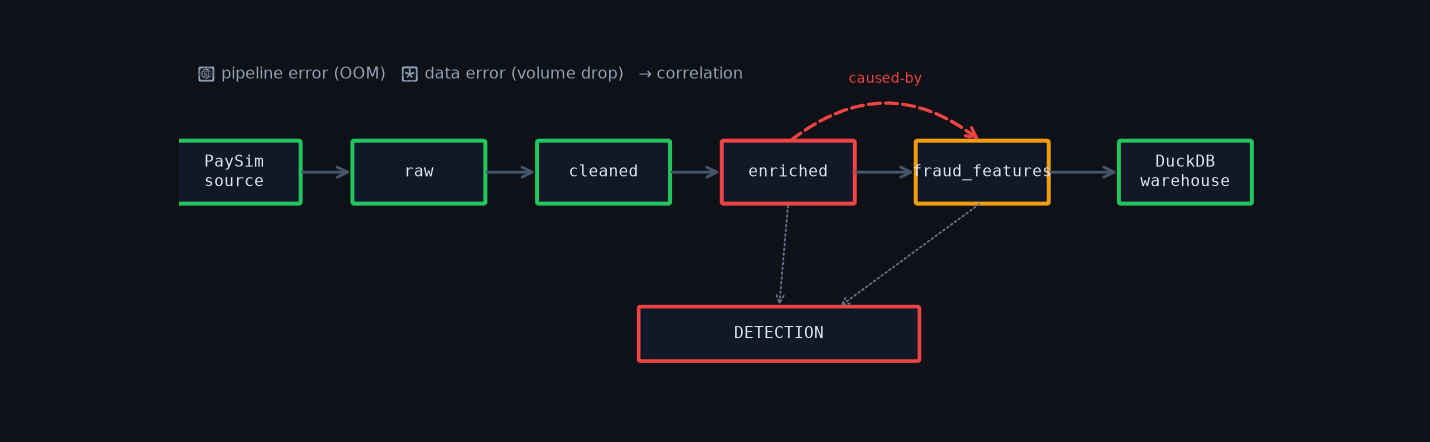
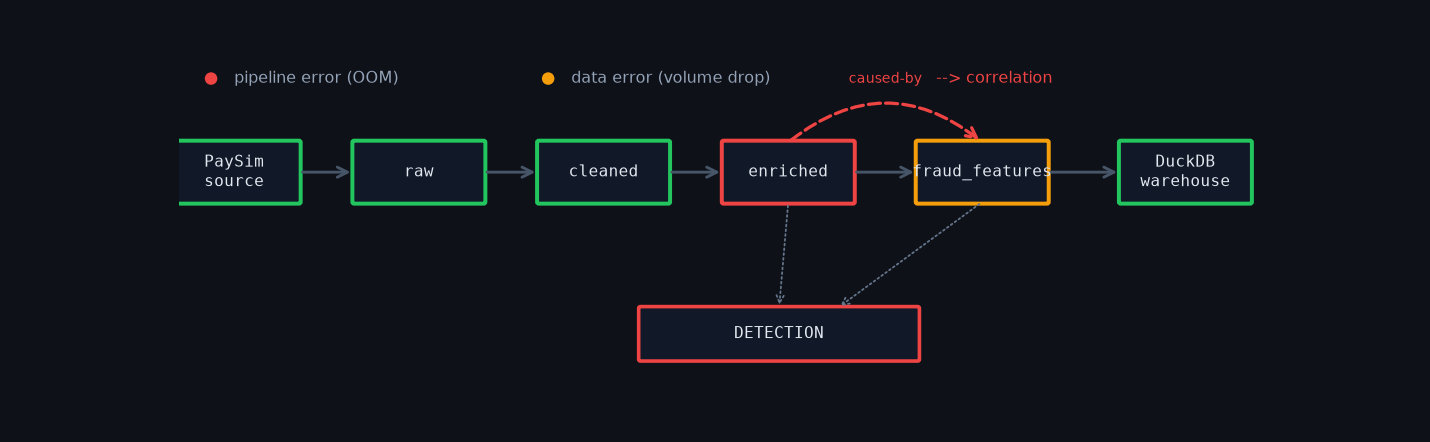
eval+docs: real LLM numbers (attribution 0.82 / op-cause 1.00, memory lift +0.05) + animated demo.gif
- Ran run_experiments --use-llm (Sonnet): bake root-cause attribution,
  report-quality rubric, and memory-ablation lift into README + writeup with
  honest weak spots (action-appropriateness 0.36; modest memory lift).
- Programmatic animated docs/demo.gif (matplotlib) replaces the broken image;
  legends drawn as dots (emoji glyphs missing from mpl fonts).

Changed region(s): [[0.1231, 0.1471, 0.5538, 0.2059], [0.6769, 0.1471, 0.7385, 0.2059]]

diff --git a/evaluation/plots.py b/evaluation/plots.py
@@ -101,10 +101,74 @@ def _flow_preview(out: Path) -> None:
                  connectionstyle="arc3,rad=-0.4", arrowstyle="->",
                  mutation_scale=14, color=_RED, lw=1.8, ls="--"))
     ax.text(7.65, cy + 1.05, "caused-by", ha="center", color=_RED, fontsize=8)
-    ax.text(0.2, 3.7, "🔴 pipeline error (OOM)   🟠 data error (volume drop)   "
-            "→ correlation", fontsize=9, color="#94a3b8")
+    ax.scatter([0.35], [3.7], s=48, c=_RED, edgecolors="none")
+    ax.text(0.6, 3.7, "pipeline error (OOM)", va="center", color="#94a3b8", fontsize=9)
+    ax.scatter([4.0], [3.7], s=48, c=_AMBER, edgecolors="none")
+    ax.text(4.25, 3.7, "data error (volume drop)", va="center", color="#94a3b8", fontsize=9)
+    ax.text(8.2, 3.7, "--> correlation", va="center", color=_RED, fontsize=9)
     fig.patch.set_facecolor("#0e1117")
     fig.savefig(out, dpi=130, facecolor="#0e1117"); plt.close(fig)
+
+
+def make_demo_gif(out: str = "docs/demo.gif", frames: int = 48, fps: int = 16) -> None:
+    """Programmatic animated demo of the Pipeline Flow (no screen recording).
+
+    Data particles stream left->right; downstream of the failed `enriched`
+    stage they turn amber (bad data propagating); the failed node pulses red and
+    a dashed caused-by arc links it to the amber downstream fault.
+    """
+    import numpy as np
+    from matplotlib import animation
+    from matplotlib.patches import FancyBboxPatch, FancyArrowPatch
+
+    nodes = [("PaySim", 0.6, _GREEN), ("raw", 2.6, _GREEN), ("cleaned", 4.6, _GREEN),
+             ("enriched", 6.6, _RED), ("fraud_features", 8.7, _AMBER),
+             ("warehouse", 10.9, _GREEN)]
+    cy, x0, x1, fault_x = 2.6, 1.3, 10.2, 6.6
+    rng = np.random.default_rng(0)
+    parts = rng.uniform(0, 1, 16)          # particle phases along the pipe
+    speed = 0.018 + rng.uniform(0, 0.01, 16)
+
+    fig, ax = plt.subplots(figsize=(10.5, 3.2))
+    fig.patch.set_facecolor("#0e1117")
+
+    def draw(frame):
+        ax.clear(); ax.set_xlim(0, 12); ax.set_ylim(0, 4); ax.axis("off")
+        ax.set_facecolor("#0e1117")
+        pulse = 2.0 + 1.6 * abs(np.sin(frame * 0.35))
+        for label, x, color in nodes:
+            lw = pulse if color in (_RED, _AMBER) else 2.0
+            ax.add_patch(FancyBboxPatch((x - 0.7, cy - 0.32), 1.4, 0.64,
+                         boxstyle="round,pad=0.02", fc="#111827", ec=color, lw=lw))
+            ax.text(x, cy, label, ha="center", va="center", color="#e2e8f0",
+                    fontsize=8.5, family="monospace")
+        for i in range(len(nodes) - 1):
+            ax.add_patch(FancyArrowPatch((nodes[i][1] + 0.7, cy), (nodes[i+1][1] - 0.7, cy),
+                         arrowstyle="->", mutation_scale=12, color="#475569", lw=1.4))
+        # particles
+        for j in range(len(parts)):
+            p = (parts[j] + frame * speed[j]) % 1.0
+            x = x0 + (x1 - x0) * p
+            col = _AMBER if x > fault_x else "#38bdf8"
+            ax.scatter([x], [cy], s=42, c=col, zorder=4, edgecolors="none")
+        # caused-by arc (pulses)
+        ax.add_patch(FancyArrowPatch((fault_x, cy + 0.32), (8.7, cy + 0.32),
+                     connectionstyle="arc3,rad=-0.4", arrowstyle="->",
+                     mutation_scale=13, color=_RED, lw=1.4 + 0.8*abs(np.sin(frame*0.35)), ls="--"))
+        ax.text(7.65, cy + 1.0, "caused-by", ha="center", color=_RED, fontsize=8)
+        # legend (drawn dots — emoji glyphs are missing from matplotlib fonts)
+        ax.scatter([0.3], [3.7], s=45, c=_RED, edgecolors="none")
+        ax.text(0.5, 3.7, "enriched job failed (OOM)", va="center", color="#94a3b8", fontsize=8.5)
+        ax.scatter([4.4], [3.7], s=45, c=_AMBER, edgecolors="none")
+        ax.text(4.6, 3.7, "downstream data fault", va="center", color="#94a3b8", fontsize=8.5)
+        ax.text(8.0, 3.7, "--> correlation", va="center", color=_RED, fontsize=8.5)
+        return []
+
+    anim = animation.FuncAnimation(fig, draw, frames=frames, interval=1000/fps, blit=False)
+    Path(out).parent.mkdir(parents=True, exist_ok=True)
+    anim.save(out, writer=animation.PillowWriter(fps=fps), dpi=90)
+    plt.close(fig)
+    print(f"Wrote {out}")
 
 
 def make_plots(json_path: str = "data/graduated_eval.json", out_dir: str = "docs") -> None:

diff --git a/README.md b/README.md
@@ -23,14 +23,12 @@ and the [design write-up](docs/writeup.md).
 
 ## Demo
 
-![Sentinel Pipeline Flow — data-architecture with a correlated fault](docs/flow_preview.png)
+![Sentinel Pipeline Flow — data streams through the stages; the failed enriched job (red) causes a downstream data fault (amber), linked by a caused-by arc](docs/demo.gif)
 
-> _The **🔀 Pipeline Flow** tab renders this **live and animated**: a batch streams through
+> _The **🔀 Pipeline Flow** tab renders this **live** in the browser: a batch streams through
 > `raw → cleaned → enriched → fraud_features`; the broken stage glows (🟠 data error / 🔴 pipeline
-> error) and a dashed "caused-by" arc links a job failure to the downstream data fault._
-> **For the animated GIF:** run `python scripts/seed_demo.py --fresh` → `streamlit run
-> dashboard/app.py`, open the Pipeline Flow tab, and screen-capture a "▶ Run a batch →
-> operational_cause" cycle (e.g. ScreenToGif / LICEcap) as `docs/demo.gif`.
+> error) and a dashed "caused-by" arc links a job failure to the downstream data fault. Try it with
+> `python scripts/seed_demo.py --fresh` → `streamlit run dashboard/app.py`._
 
 ## Architecture — six layers
 
@@ -163,9 +161,19 @@ The precision/recall/F1 **vs. z-threshold** curve makes the operating point a vi
 every run; after one `not_a_problem` creates a `SuppressionRule` via the governance path, the
 false-positive rate for that pattern drops **1.0 → 0.0** (`fp_trend = [1,0,0,0,0,0]`).
 
-**LLM-gated metrics** — root-cause **attribution**, **report-quality** rubric, and the
-**memory-ablation** lift (the headline differentiators) run under `--use-llm`; numbers pending
-a funded key.
+**LLM reasoning** (`run_experiments --use-llm`, Sonnet — `data/eval_results_llm.json`):
+
+| Metric | Result |
+|---|---|
+| **Root-cause attribution** (overall) | **0.82** — `caused_by` matches ground truth |
+| **Attribution on operational-cause faults** | **1.00** — correctly blames the upstream job / infra, not the data |
+| **Report-quality rubric** (avg) | **0.77** (root-cause 0.82 · severity 1.00 · confidence-calibration 0.82 · action-appropriateness 0.36) |
+| **Memory-ablation lift** | **+0.05** (0.77 with-memory vs 0.72 without) — retrieval helps, mainly via better action selection |
+
+Honest reads: operational-cause **attribution is the standout (1.00)** — the cross-signal RCA
+works. Action-appropriateness (0.36) is the weakest link (the model often proposes `manual`
+where the rubric wants a concrete action), and the memory lift is **modest but positive** on
+this small corpus.
 
 ## Tests
 

diff --git a/docs/writeup.md b/docs/writeup.md
@@ -117,9 +117,13 @@ positive only when the **matching check-type** fires (not just any anomaly), so 
 correctness rather than proving sensitivity. Latency ≤ 1 run for high/critical (2 for
 low/medium by debounce).
 
-**LLM-gated (pending a funded key):** root-cause **attribution**, **report-quality** rubric, and
-the **memory-ablation** lift — the headline differentiators — run under
-`python -m evaluation.run_experiments --use-llm`.
+**LLM reasoning** (`--use-llm`, Sonnet — `data/eval_results_llm.json`): root-cause **attribution
+0.82 overall / 1.00 on operational-cause faults** (the cross-signal RCA correctly blames the
+upstream job / infrastructure, not the data — the differentiator lands); **report-quality 0.77**
+avg (root-cause 0.82, severity 1.00, confidence-calibration 0.82, action-appropriateness a weak
+0.36); **memory-ablation +0.05** (0.77 with-memory vs 0.72 without — modest but positive, driven
+by better action selection). Honest weak spots: action-appropriateness (the model over-prefers
+`manual`) and the small memory corpus.
 
 ### Known limitations (where a naive baseline breaks)
 